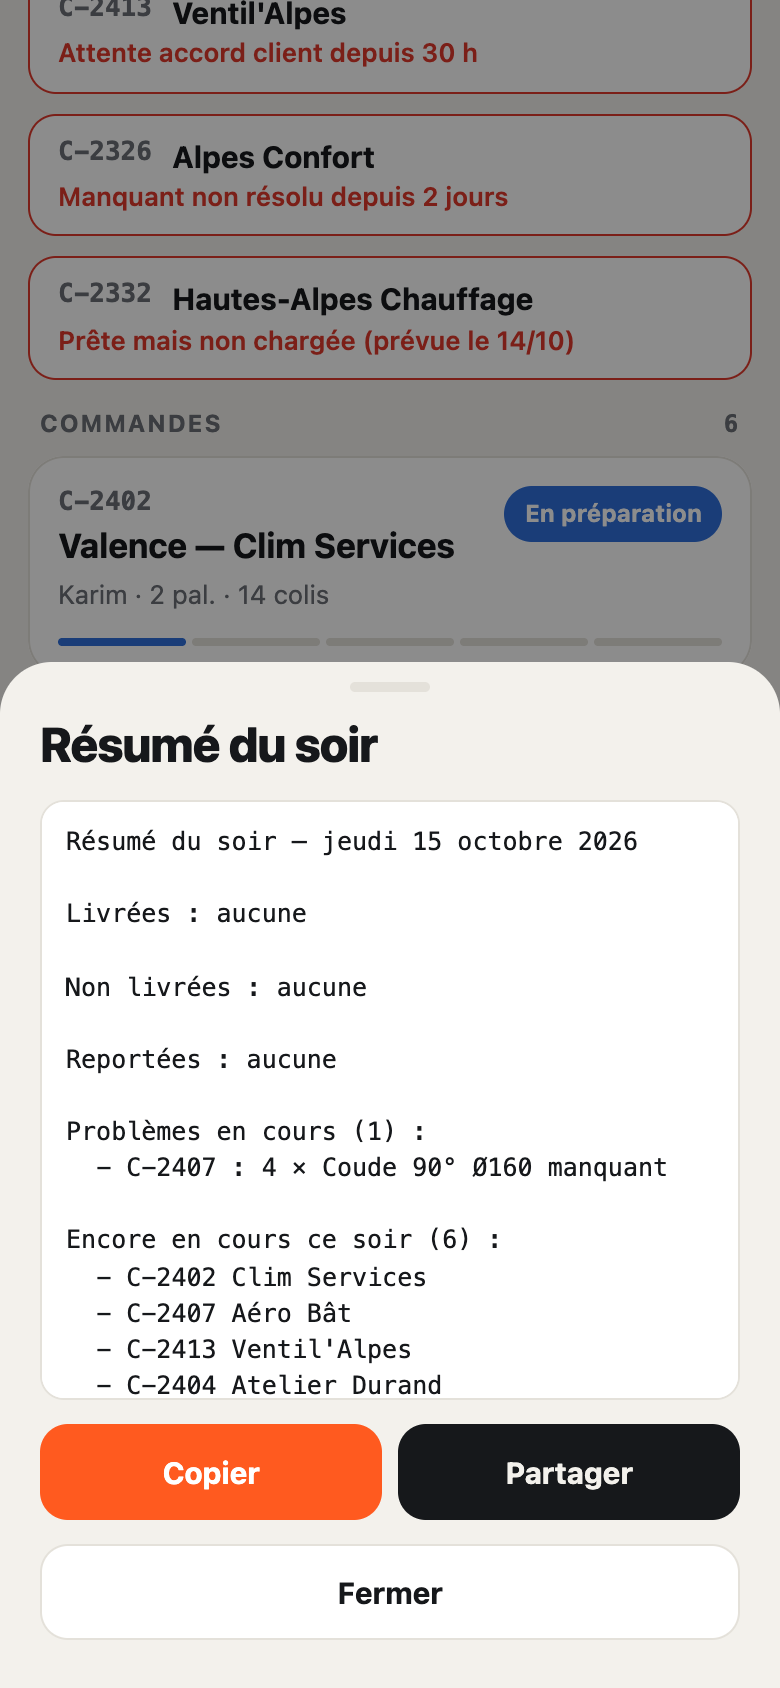
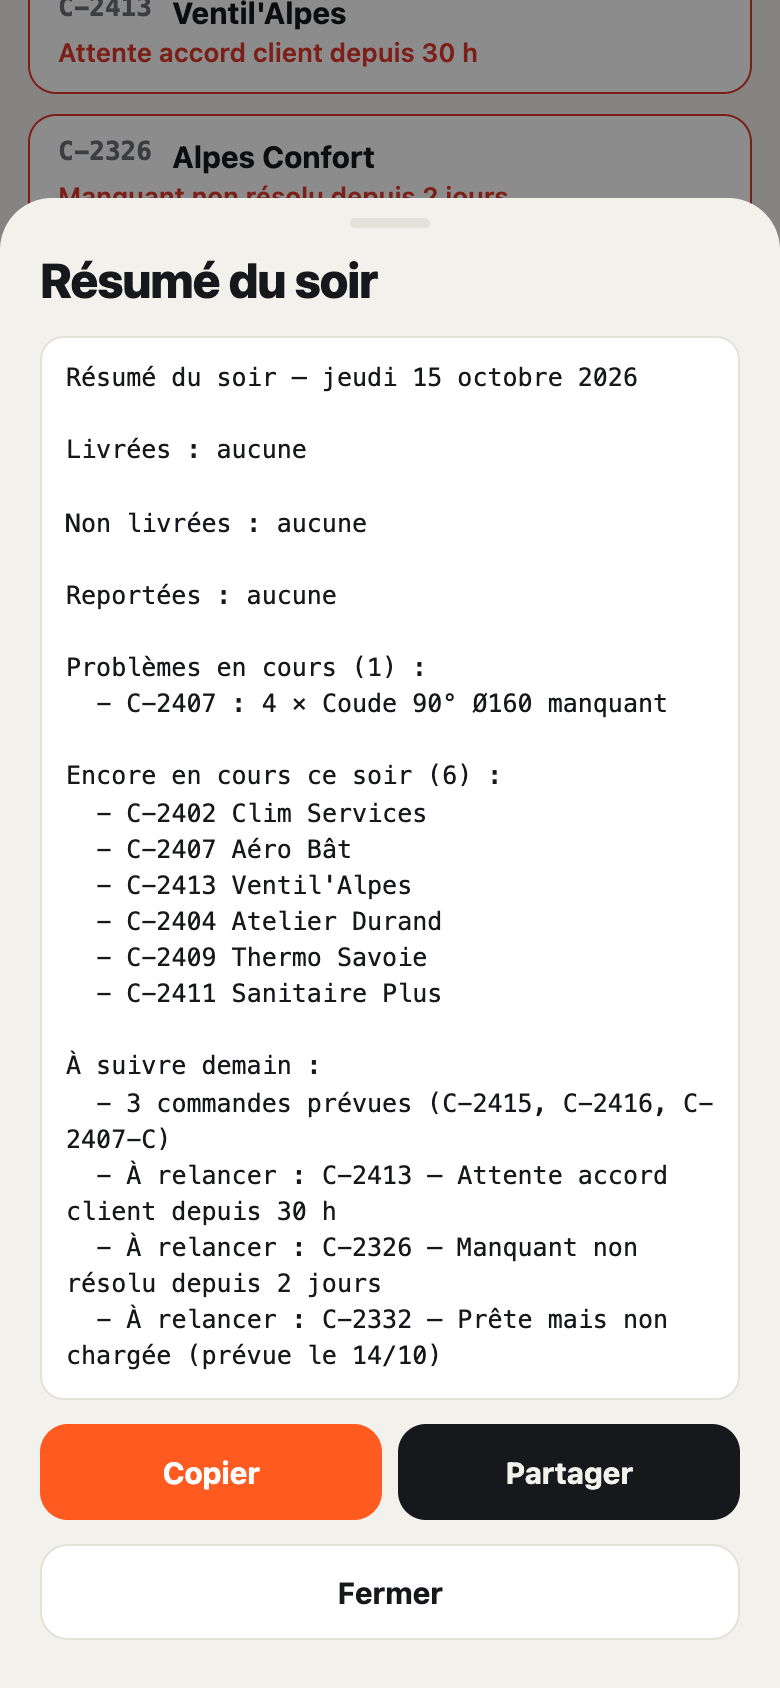
Résumé : hauteur auto vérifiée ; stats : barres vérifiées

diff --git a/src/style.css b/src/style.css
@@ -90,7 +90,7 @@ textarea{resize:none;min-height:88px}
 .alert .cli2{font-weight:700}.alert .why{grid-column:1/3;font-size:13px;color:var(--bad);font-weight:600}
 .toast{display:flex;align-items:center;gap:12px;justify-content:center}
 .toast .undo{min-height:36px;padding:0 12px;border-radius:99px;background:var(--acc);color:#fff;font-weight:700;font-size:13px}
-.sumtxt{min-height:300px;field-sizing:content;max-height:60vh;font:12.5px/1.45 var(--mono)}
+.sumtxt{min-height:300px;height:auto;flex-shrink:0;font:12.5px/1.45 var(--mono)}
 .xbtn{width:44px;height:44px;font-size:28px;font-weight:300;color:var(--mut)}
 .sb{padding-bottom:calc(24px + env(safe-area-inset-bottom))}
 .back{display:flex;align-items:center;gap:2px;color:var(--acc);font-weight:700;padding:0}.back svg{width:20px;height:20px}

diff --git a/src/Summary.jsx b/src/Summary.jsx
@@ -13,7 +13,7 @@ export function SummarySheet({ open, onClose, s, date }) {
   return (
     <Sheet open={open} onClose={() => { setTxt(''); onClose() }}>
       <h2>Résumé du soir</h2>
-      <textarea className="sumtxt" data-summary-text value={text} onChange={(e) => setTxt(e.target.value)} aria-label="Texte du résumé" />
+      <textarea className="sumtxt" data-summary-text ref={(el) => { if (el) { el.style.height = "auto"; el.style.height = el.scrollHeight + 2 + "px" } }} value={text} onChange={(e) => setTxt(e.target.value)} aria-label="Texte du résumé" />
       <div className="btns">
         <button className="btn acc" data-copy onClick={copy}>Copier</button>
         {navigator.share && <button className="btn" data-share onClick={share}>Partager</button>}
